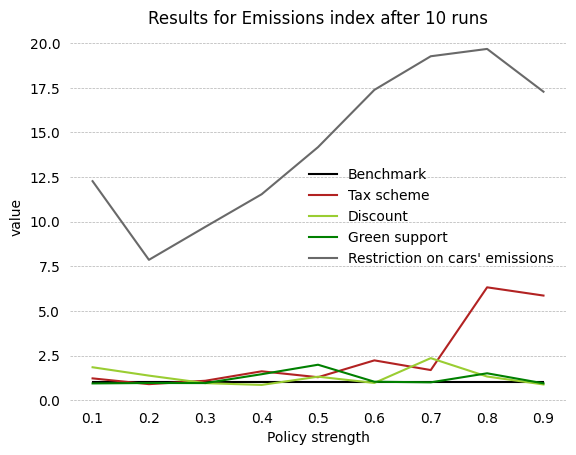
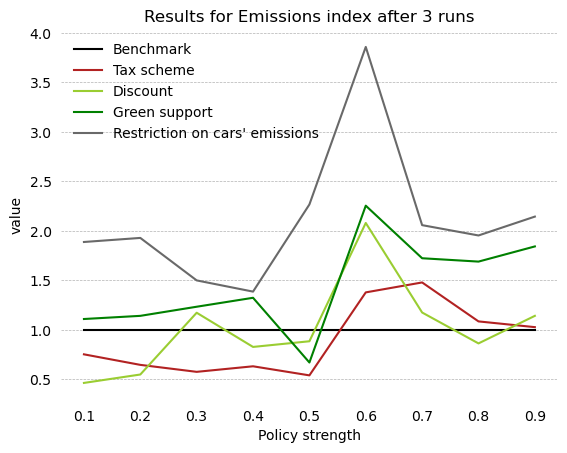
deduced iva from firms budget

diff --git a/cars.py b/cars.py
@@ -30,6 +30,8 @@ class Vehicle:
         self.firm = firm
         self.sales_price = None
         self.calculate_price()
+        self.owed_taxes = 0
+        self.policy_value_discount = 0
 
     def drive_range(self):
         # Driving range (DR)
@@ -50,15 +52,15 @@ class Vehicle:
             # Only for green cars that perform less than average benchmark
             if self.type == 'green' and self.emissions() < self.firm.sim.e:
                 policy_value = params.green_support[self.firm.sim.policy['level']] * e_parameter
-        # TODO: Although sales price is full, probably firms should receive value deduced from iva and policy tax?
-        # TODO: Aqui temos que costruir a politica brasileira onde tem uma dedução do IPI?
-        # TODO: Solução: criar variável taxas/impostos por veículo (preços ao consumidor: soma custo + taxas + margem
-        # (achamos que podemos descontar do IVA para semplificar) de no minimo 3%
-        # quando a fabrica começa o desenvolvimento do carro eletrico
-        # As firmas só recebem a Política Tx e pagam o IVA que vai pro gove
+        # policy_value é DESCONTO. policy_tax é SOBRETAXA OU DESCONTO NA TAXA
+        # TODO: política brasileira
+        # Politica Brasileira: descontar do IVA  no minimo 3% quando a fabrica inicia desenvolvimento do carro eletrico
         self.sales_price = (1 + params.iva) * (1 + params.p_lambda) * \
                            (1 + policy_tax) * self.production_cost + policy_value
-        return policy_tax * self.production_cost + policy_value
+        # QUAL CUSTO O GOVERNO DEIXA DE RECEBER, QUAL DEIXA A FIRMA?
+        self.owed_taxes = (policy_tax + params.iva) * self.production_cost
+        self.policy_value_discount = policy_value
+        return self.owed_taxes + self.policy_value_discount
 
     def criteria_selection(self, emotion, criteria1, criteria2):
         ms1 = self.firm.market_share[self.type][self.firm.sim.t]

diff --git a/model.py b/model.py
@@ -150,7 +150,7 @@ class Simulation:
             if self.policy['policy'] == 'max_e':
                 self.e_max = self.e * (1 + self.seed.uniform(0, params.e_max[self.policy['level']]))
                 self.log.info(f'Max emission for time {self.t} is {self.e_max:.2f}')
-            # When updating car prices, if policy is in effect, discounts or taxes are summed and returned
+            # When updating car prices, if policy is in effect, DISCOUNTS AND TAXES are summed and returned
             public_expenditure = sum([car.calculate_price() * firm.sold_cars[car.type][self.t - 1]
                                       for firm in self.firms.values()
                                       for car in firm.cars.values()])
@@ -240,3 +240,11 @@ def main(policy, verbose=False, seed=True):
     my_sim = Simulation(policy, verbose, seed)
     my_sim.controller()
     return my_sim
+
+
+if __name__ == '__main__':
+    level = .1
+    pols = [None, 'tax', 'discount', 'green_support', 'max_e']
+    pol = pols[2]
+    p = {'policy': pol, 'level': level}
+    s = main(p)

diff --git a/firms.py b/firms.py
@@ -51,7 +51,8 @@ class Firm:
         for tech in self.cars:
             # For each technology (gas, green), number of cars sold times sales price minus production cost
             self.profit[tech][self.sim.t] += self.sold_cars[tech][self.sim.t - 1] * \
-                                             (self.cars[tech].sales_price - self.cars[tech].production_cost)
+                                             (self.cars[tech].sales_price - self.cars[tech].production_cost
+                                              - self.cars[tech].owed_taxes)
 
     def update_market_share(self, total_cars_sold):
         if self.sim.t == 0:

diff --git a/generalization.py b/generalization.py
@@ -20,7 +20,7 @@ policies_titles = {None: ['Benchmark', 'black'],
                    'discount': ['Discount', 'yellowgreen'],
                    'green_support': ['Green support', 'green'],
                    'max_e': ["Restriction on cars' emissions", 'dimgrey']}
-verbose = False
+verbose = True
 seed = False
 
 
@@ -131,7 +131,7 @@ def benchmark(n=10):
 
 if __name__ == '__main__':
     t0 = time.time()
-    m = 100
+    m = 3
     benchmark(m)
     # r, l, m = policies(m)
     # plot_policies(r, l, m)

diff --git a/Notes.md b/Notes.md
@@ -4,7 +4,24 @@
 
 ### Importante take aways!
 
-**Tudo conferido, pequenos ajustes, mas: continua índice de greens bem  maior que o reportado no artigo
+** Nova rodada de conferência para September 29.
+
+1. Continuo sem saber como implementar a linha do item C.22: "Firm i will decide to abandon technology j 
+according to probabilities that depend on ROIij
+and **the total number of periods** in which the firm has developed technology j: the lower the return on
+investment of technology j, the higher its probability of being abandoned, and the **longer the experience
+has lasted, the harder it is to abandon**"
+
+@andrugo7: Podes pensar como implementar isso (matematicamente)? Acho que faltou na fórmula/descrição, mas é relevante.
+Deve ser o ROI * alguma coisa (1 - 1/num de anos)?
+
+2. Segunda coisa mais relevante, penso, é o IVA a ser descontado do preço do imóvel e recolhido para ente público.
+Based on this as well: "The VAT benefits are used as a benchmark for the other
+scenarios with government regulation.36" 4.1
+
+
+
+**Tudo conferido, pequenos ajustes, mas: continua índice de greens maior que o reportado no artigo
 **
 
 0. O Cleanness do carro estava como 1/drive_range, mas é 1/emmissions. Troquei.
@@ -27,6 +44,8 @@ critérios são iguais.
 10. A marcação de não mudança de portfólio de 10 anos vale para qualquer mudança. Portanto, só pode abandonar 'gas' no
 ano 20. Implementada correção.
 11. As vezes, mesmo criteria era usado duas vezes, substitui random.choices por random.sample
+
+#### ROI maior que 1. Verificar. Production_cost reduction does not affect sales prices?
 
 0. IVA é usado como benchmarket para public finance.
 1. Autores mencionam CUMULATIVE COSTS p.64
